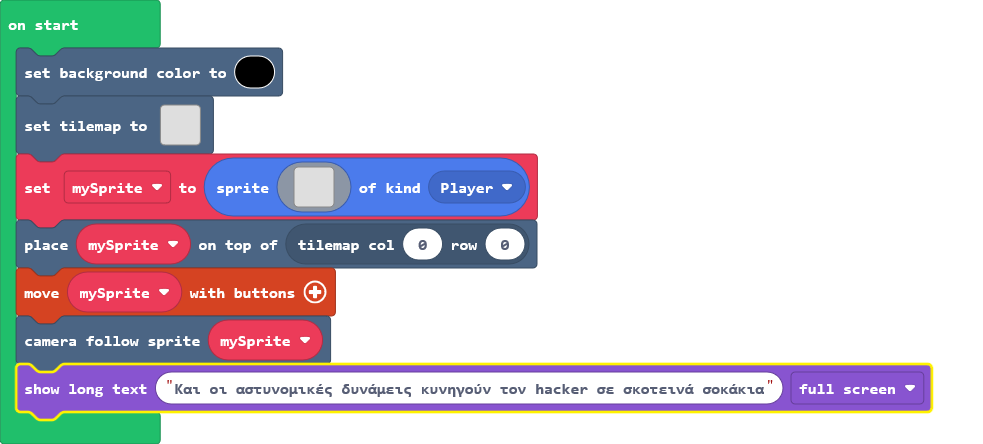
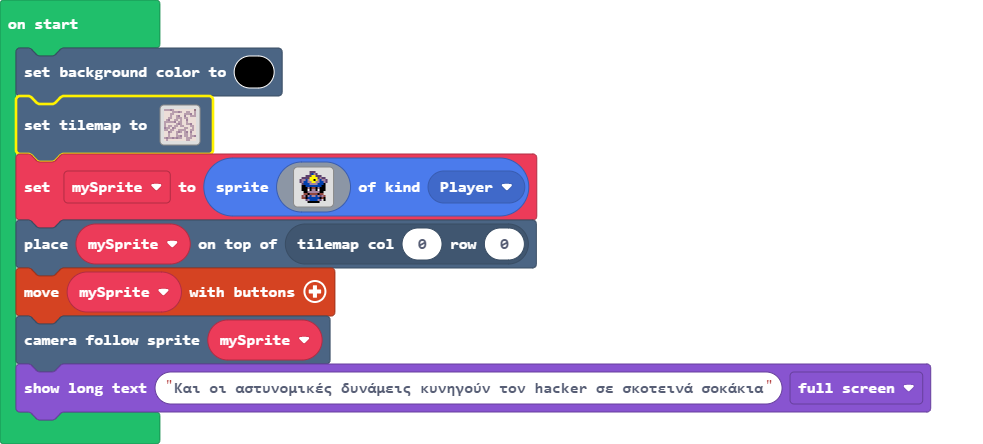
Update main.blocks, main.ts, tilemap.g.jres, tilemap.g.ts

diff --git a/tilemap.g.ts b/tilemap.g.ts
@@ -2,11 +2,13 @@
 namespace myTiles {
     //% fixedInstance jres blockIdentity=images._tile
     export const transparency16 = image.ofBuffer(hex``);
+    //% fixedInstance jres blockIdentity=images._tile
+    export const tile1 = image.ofBuffer(hex``);
 
     helpers._registerFactory("tilemap", function(name: string) {
         switch(helpers.stringTrim(name)) {
             case "level1":
-            case "level1":return tiles.createTilemap(hex`1000100001010103010202020202020202020201020202020101010301020201010202010202020101020202020201010103020102020201020201030202030202010101020201010202010101020101020202020201030202010102010202030202020201010101010302010102020102020202010202020202010301020201010302020102010102010102010102020201010203010102030102020202010102020102010102010102020101010102020101020202030102020103010201030203020202020102020201020202010102010202020201020202010103020101020101030103010103010301010202010101020202010202020202020202020101020202`, img`
+            case "level1":return tiles.createTilemap(hex`1000100001010103010202020202020202020204020202020101010301020201010202010202020101020202020201010103020102020201020201030202030202010101020201010202010101020101020202020201030202010102010202030202020201010101010302010102020102020202010202020202010301020201010302020102010102010102010102020201010203010102030102020202010102020102010102010102020101010102020101020202030102020103010201030203020202020102020201020202010102010202020201020202010103020101020101030103010103010301010202010101020202010202020202020202020101020202`, img`
 . . . . . 2 2 2 2 2 2 2 2 2 2 . 
 2 2 2 2 . . . . . 2 2 . . 2 2 . 
 2 2 2 . . 2 2 2 2 2 . . . . 2 . 
@@ -23,7 +25,7 @@ namespace myTiles {
 2 2 . 2 2 2 . . . 2 . . 2 . . . 
 . . . . . . . . . 2 2 . . . 2 2 
 2 . 2 2 2 2 2 2 2 2 2 . . 2 2 2 
-`, [myTiles.transparency16,sprites.dungeon.floorMixed,sprites.builtin.brick,sprites.dungeon.floorDark1], TileScale.Sixteen);
+`, [myTiles.transparency16,sprites.dungeon.floorMixed,sprites.builtin.brick,sprites.dungeon.floorDark1,myTiles.tile1], TileScale.Sixteen);
         }
         return null;
     })
@@ -31,6 +33,8 @@ namespace myTiles {
     helpers._registerFactory("tile", function(name: string) {
         switch(helpers.stringTrim(name)) {
             case "transparency16":return transparency16;
+            case "myTile":
+            case "tile1":return tile1;
         }
         return null;
     })

diff --git a/main.ts b/main.ts
@@ -1,22 +1,22 @@
 scene.setBackgroundColor(15)
 tiles.setTilemap(tilemap`level1`)
 let mySprite = sprites.create(img`
-    . . . . . . . . . . . . . . . . 
-    . . . . . . . . . . . . . . . . 
-    . . . . . . . . . . . . . . . . 
-    . . . . . . . . . . . . . . . . 
-    . . . . . . . . . . . . . . . . 
-    . . . . . . . . . . . . . . . . 
-    . . . . . . . . . . . . . . . . 
-    . . . . . . . . . . . . . . . . 
-    . . . . . . . . . . . . . . . . 
-    . . . . . . . . . . . . . . . . 
-    . . . . . . . . . . . . . . . . 
-    . . . . . . . . . . . . . . . . 
-    . . . . . . . . . . . . . . . . 
-    . . . . . . . . . . . . . . . . 
-    . . . . . . . . . . . . . . . . 
-    . . . . . . . . . . . . . . . . 
+    . . . . . . c c c . . . . . . . 
+    . . . . . . c 8 b c . . . . . . 
+    . . . . c c c 5 5 c c c . . . . 
+    . . c c c c 5 5 5 5 c b c c . . 
+    . c b b 8 b 5 5 f 5 b 8 b b c . 
+    . c b 8 8 b b 5 5 b b 8 8 b c . 
+    . . c 8 8 8 b b b b 8 8 8 f . . 
+    . . f f 8 8 8 8 8 8 8 8 f f . . 
+    . . f f f b f e e f b f f f . . 
+    . . f f f 1 f b b f 1 f f f . . 
+    . . . f f b b b b b b f f . . . 
+    . . . e e f e e e e f e e . . . 
+    . . e b f b 8 b b 8 b c b e . . 
+    . . e e f 8 8 8 8 8 8 f e f . . 
+    . . . . c b 8 8 8 8 b c . f . . 
+    . . . . . f f f f f f . . . . . 
     `, SpriteKind.Player)
 tiles.placeOnTile(mySprite, tiles.getTileLocation(0, 0))
 controller.moveSprite(mySprite)
